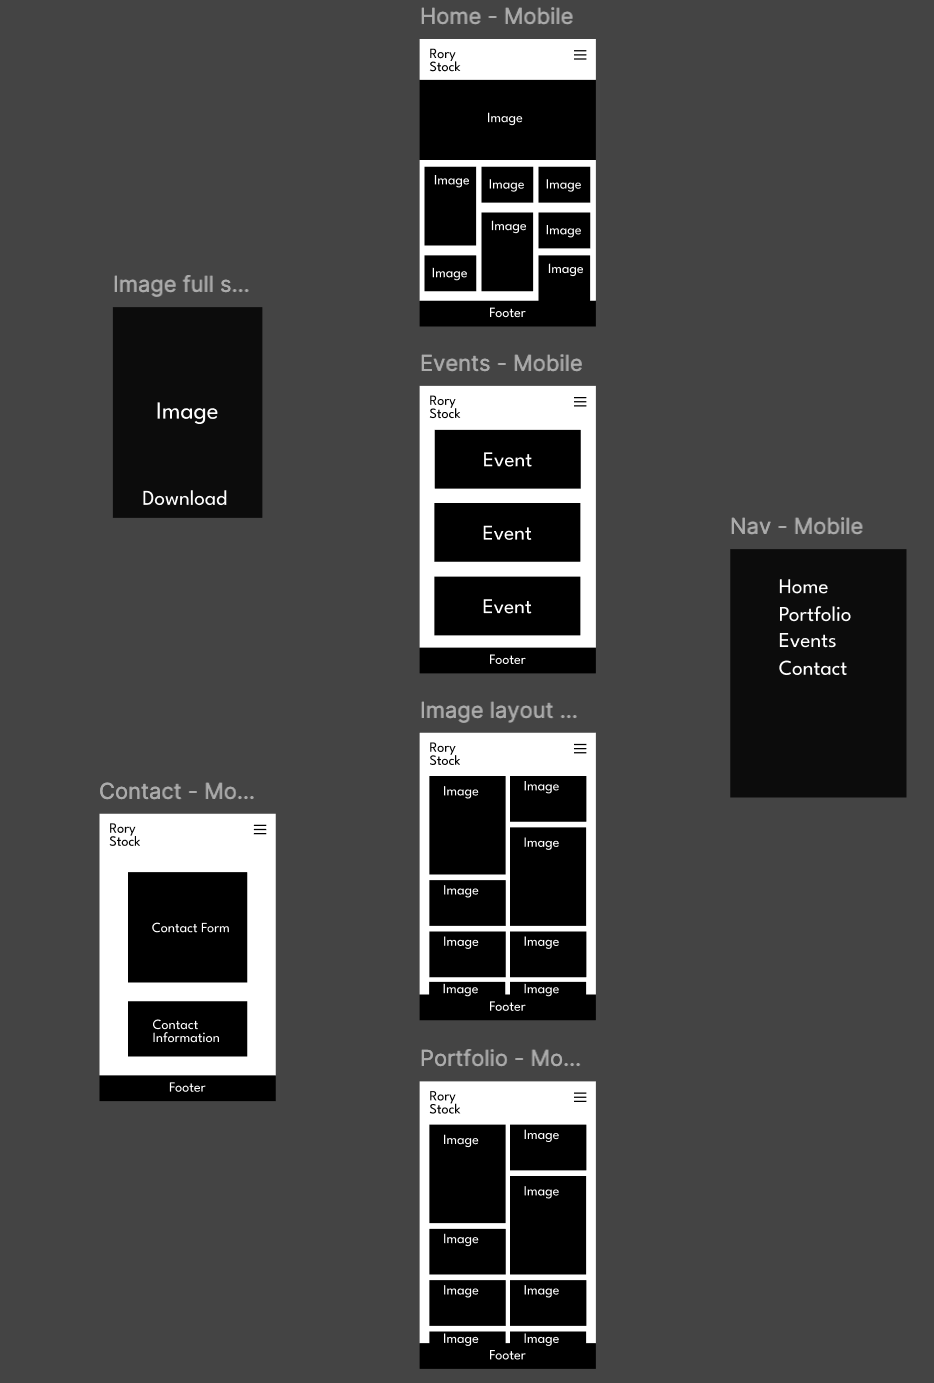
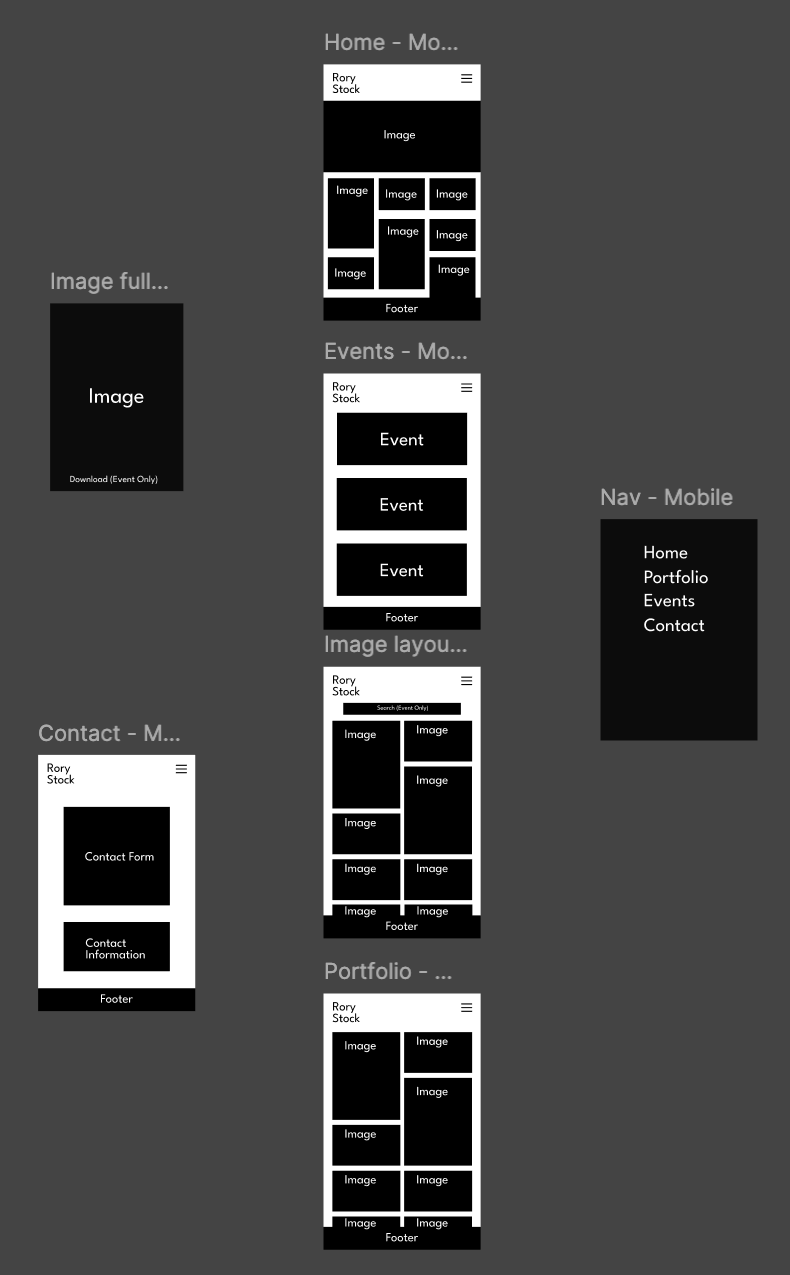
updating design and development logs

diff --git a/Design.md b/Design.md
@@ -41,8 +41,15 @@ Users should be able to search for any images that have their race plate in (rac
 Admin/Owner will be able to easily add images to the website and add new events/projects from within the website
  - This would require an admin account with special permissions so that they can modify the site
     - Some of the features that should be included in the admin panel are: 
-        - Option to select if an uploaded image can be downloaded or not
+        - Option to select if an uploaded image can be downloaded or not, and change this at any time
         - Ability to archive old event images so that they don't take up so much space in the r2 bucket
+        - Ability to add new events
+        - Ability to add new images to the website, and which section they should be in
+        - Change which section an image is in, or add it to multiple sections
+            Sections:
+                - Portfolio
+                - Events
+                - Home page
 
 -------------------------------------------------
 
